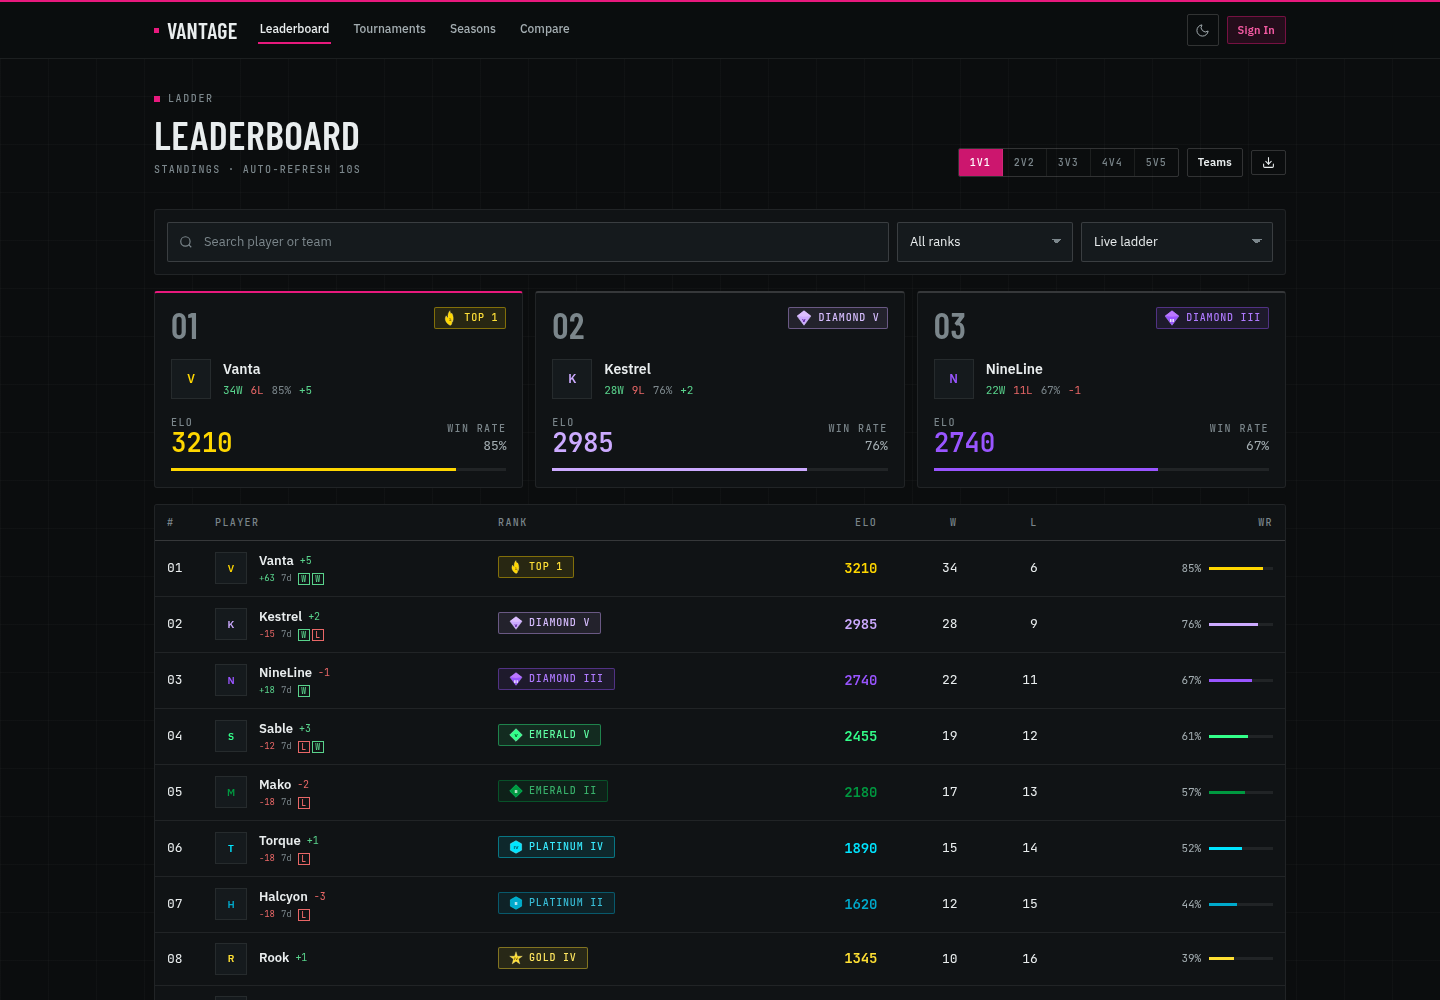
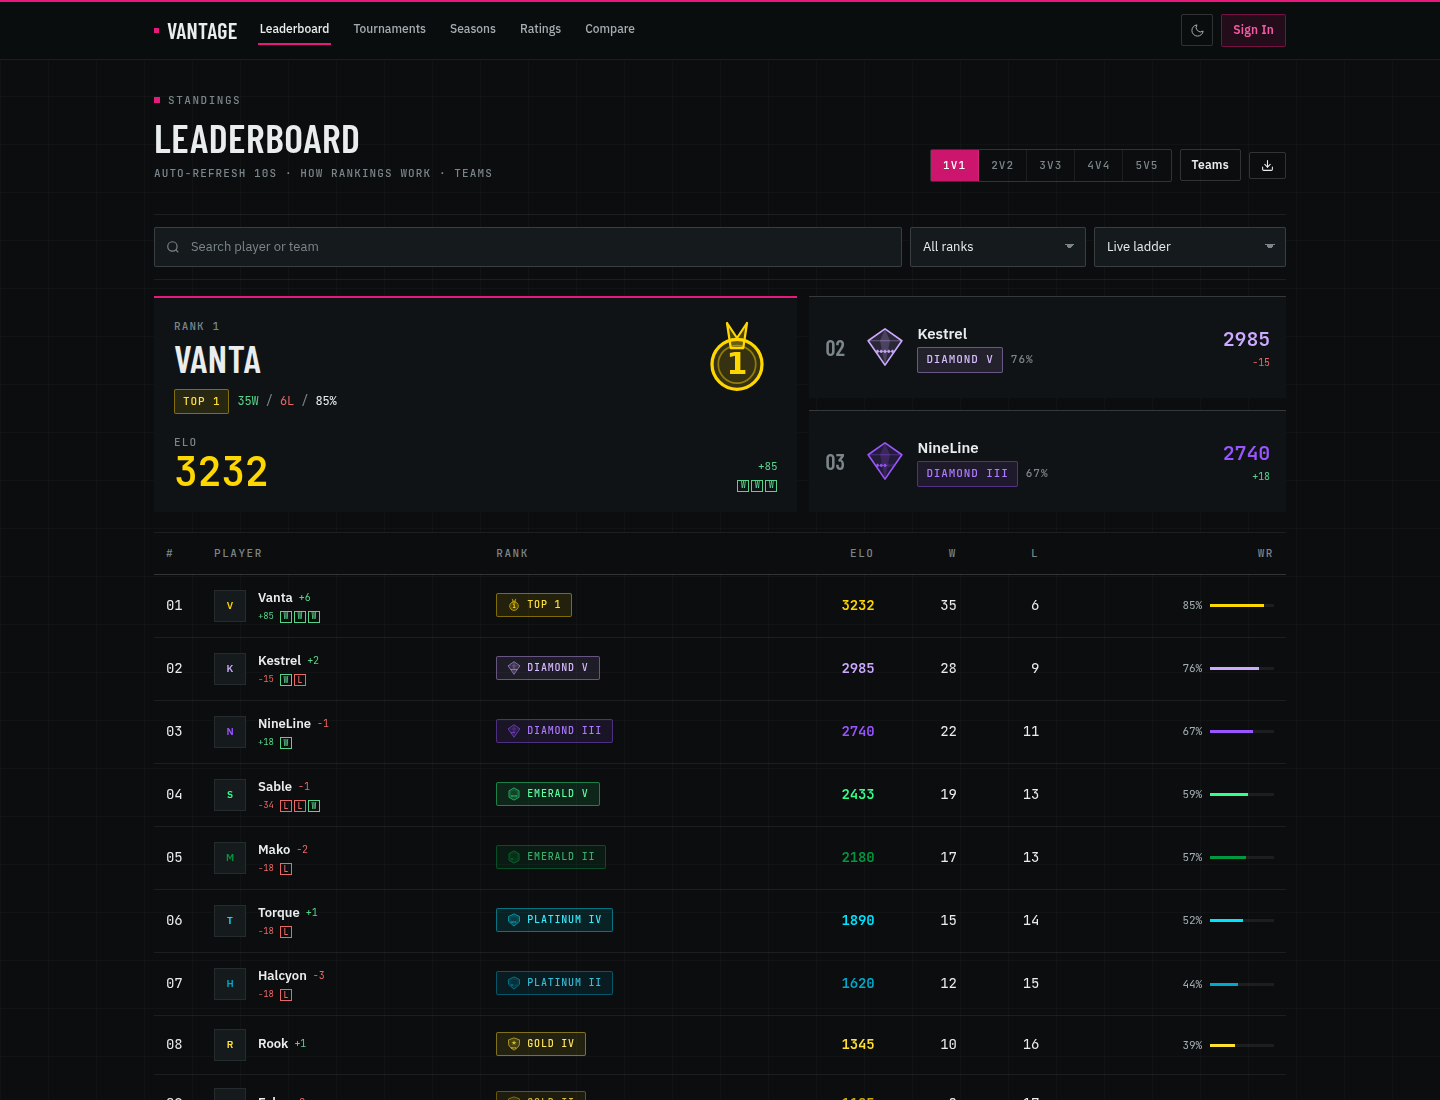
docs: refresh README, add MIT license and security policy
- Current leaderboard screenshot and accurate feature set
- Correct clone URL and admin configuration
- Document confirmation, R6 metadata, teams, integrity and share cards
- MIT license, security policy, Dependabot

diff --git a/README.md b/README.md
@@ -1,153 +1,154 @@
-# Vantage 🏆
+# Vantage
 
-> **Your community's ranked ladder — up and running in 2 commands.**
+A self-hosted competitive ladder for Rainbow Six communities.
 
-![Screenshot](assets/screenshot.png)
+Glicko-2 ratings, seasons, tournaments, confirmed match reporting, Rainbow Six match metadata, managed teams, and a full admin panel — server-rendered with FastAPI and PostgreSQL.
 
-A competitive ranking and match-tracking system for **Rainbow Six Siege** built for communities that want to run their own ranked ladder. Features an ELO system with provisional ratings, seasons, tournaments, Discord authentication, and a full admin panel — all wrapped in a tactical match-dossier UI with dark and light themes.
+![Vantage leaderboard](assets/screenshot.png)
 
-## ✨ What It Can Do
+[![CI](https://github.com/kashcmdd/rainbow-leaderboard/actions/workflows/ci.yml/badge.svg)](https://github.com/kashcmdd/rainbow-leaderboard/actions/workflows/ci.yml)
+![Python](https://img.shields.io/badge/python-3.12-3776AB?logo=python&logoColor=white)
+![FastAPI](https://img.shields.io/badge/FastAPI-0.115-009688?logo=fastapi&logoColor=white)
+![PostgreSQL](https://img.shields.io/badge/PostgreSQL-16-4169E1?logo=postgresql&logoColor=white)
+![Docker](https://img.shields.io/badge/Docker-Compose-2496ED?logo=docker&logoColor=white)
+[![License: MIT](https://img.shields.io/badge/license-MIT-green)](LICENSE)
 
-- **ELO Rating System** — Glicko-2 ratings (shown as ELO) with rating deviation: new players start at 500 with RD 350, shown with a Provisional badge and ±RD until they settle, win/loss outcomes, per-player team updates, and multi-format support (1v1 through 5v5). Inactivity grows RD instead of decaying the rating, so returning players move more. Scores are capped at 20 per side.
-- **Player Profiles** — Each player gets a dashboard with ELO history chart, win/loss stats, rank icon, and a feed of their recent matches.
-- **Match Reporting** — Report results and let the algorithm handle the math. Configurable score formats for any game mode.
-- **Player Comparison** — Put any two players side by side with head-to-head stats and time-filtered match history.
-- **Tournaments** — Brackets with visual connector lines, champion highlights, and ELO integration.
-- **Seasons** — Time-based resets with archived leaderboards you can browse anytime.
-- **Admin Panel** — Manage players, edit matches, set ELO values, bulk import from CSV, add notes, and control seasons. All with an audit log.
-- **Discord Auth** — Log in with Discord. Granular admin roles.
-- **Rank Icons** — 41 custom SVG icons from Bronze through Champion, each tier with its own distinct shape (shields, crystals, crowns, etc.).
-- **Dark Mode** — Moon/sun toggle, saved to your browser. Looks great either way.
-- **Download Data** — Export the leaderboard as CSV or JSON with one click.
+> Status: active and deployed privately on a tailnet. There is no public demo; run it locally or ask for a walkthrough.
 
-## 🧱 Tech Stack
+## What it does
 
-| Layer | Tech |
+**Ratings**
+- Glicko-2 under the hood, shown as ELO. New players start at 500 with RD 350 and a provisional badge.
+- Win/loss only: score margin does not change the swing.
+- Per-player updates inside team formats, 1v1 through 5v5.
+- Inactivity inflates RD instead of decaying the rating, so returning players move more.
+- Top positions, streaks, last-five form, weekly movement and progress to the next rank.
+
+**Match integrity**
+- Player reports are `pending` until the opponent confirms; admins can confirm directly.
+- Disputes keep the result off the ladder until an admin resolves it.
+- Evidence link, duplicate guard, rate limiting and an audit log.
+- Optional map, side (attack/defense) and operator bans.
+
+**Competition**
+- Seasons with archived standings snapshots and champions. Closing a season resets 1v1 only.
+- Tournaments with seeded brackets, automatic winner advancement and a champion on the index.
+- Managed teams with a captain, roster editor and reuse of a named lineup across matches.
+- Head-to-head records on every profile and a two-player compare page.
+
+**Experience**
+- #1 spotlight, rank art for every tier, dark and light themes, responsive from 390px up.
+- Generated 1200×630 match share cards at `/og/match/{id}.png`.
+- CSV/JSON leaderboard export and an optional Discord webhook.
+
+**Admin**
+- Player management, ELO adjustments with reasons, match editing, notes, bulk CSV import.
+- Season and tournament control, audit log with filters.
+- Integrity checks for repeated pairings, one-sided records and reporter bursts.
+
+## Stack
+
+| Layer | Choice |
 |---|---|
-| **Backend** | Python 3.12 + FastAPI |
-| **Database** | PostgreSQL 16 via asyncpg + SQLAlchemy (async) |
-| **Frontend** | Server-rendered Jinja2 + vanilla JS + Tailwind |
-| **Auth** | Discord OAuth2 |
-| **Scheduling** | APScheduler for inactivity RD inflation |
-| **Container** | Docker + Docker Compose |
-| **Migrations** | Alembic |
+| Backend | Python 3.12, FastAPI, SQLAlchemy 2 async |
+| Database | PostgreSQL 16, Alembic migrations |
+| Views | Jinja2, vanilla JS, Tailwind 3 (committed build) |
+| Ratings | Glicko-2 (`app/glicko2.py`) |
+| Jobs | APScheduler (RD inflation, season auto-close) |
+| Runtime | Docker + Docker Compose |
 
-## 🚀 Getting Started
+## Run it
 
-### You'll Need
-
-- Docker & Docker Compose
-
-### Let's Go
+Requirements: Docker and Docker Compose.
 
 ```bash
-git clone https://github.com/Martty12212/rainbow-leaderboard.git
+git clone https://github.com/kashcmdd/rainbow-leaderboard.git
 cd rainbow-leaderboard
+cp .env.example .env
+# set SECRET_KEY and POSTGRES_PASSWORD in .env
 docker compose up -d --build
 ```
 
-Open `http://localhost:8090` and you're live.
+Open `http://localhost:8090`. Migrations run automatically at startup.
 
 ### Configuration
 
-Copy `.env.example` to `.env` and fill in your details:
+`.env.example` documents every setting. The ones that matter first:
 
 ```env
-DATABASE_URL=postgresql+asyncpg://rainbow:rainbow@db:5432/rainbow
-SECRET_KEY=your-secret-key-here
+SECRET_KEY=change-me
+POSTGRES_PASSWORD=change-me
 SITE_NAME=Vantage
-COOKIE_SECURE=false          # true behind HTTPS
+COOKIE_SECURE=false            # true behind HTTPS
 PUBLIC_BASE_URL=http://localhost:8090
-DISCORD_CLIENT_ID=your-discord-client-id
-DISCORD_CLIENT_SECRET=your-discord-client-secret
+DISCORD_CLIENT_ID=
+DISCORD_CLIENT_SECRET=
 DISCORD_REDIRECT_URI=http://localhost:8090/auth/callback
-DISCORD_WEBHOOK_URL=         # optional match announcements
+DISCORD_WEBHOOK_URL=           # optional match announcements
+REQUIRE_MATCH_CONFIRMATION=true
+AUTO_CLOSE_SEASONS=false
 ```
 
-To make yourself an admin, add your Discord user ID to `admin_discord_ids` in `app/config.py`.
+To make yourself an admin, either promote the player from the admin panel or set `ADMIN_DISCORD_IDS` to your Discord user ID.
 
-### Testing without Discord
+### Local sign-in without Discord
 
-Real sign-in is Discord OAuth. For a quick local/tailnet test, set
-`DEV_LOGIN_DISCORD_ID` (and `DEV_LOGIN_ADMIN=true` if you want admin rights),
-restart, then open `/auth/dev`. Unset it for production: while it is set, anyone
-who can reach the site can log in as that user.
+For a local or tailnet test, set `DEV_LOGIN_DISCORD_ID` and open `/auth/dev`. Set `DEV_LOGIN_ADMIN=true` for admin rights. Unset both in production — while they are set, anyone who can reach the site can use that login.
 
-### Migrations
-
-The schema is managed by Alembic. `alembic upgrade head` runs automatically when the
-app starts, using a Postgres advisory lock so multiple workers cannot race.
-
-For a database created before Alembic was wired (tables but no `alembic_version`),
-startup adopts it: it verifies that no model columns are missing, converts the known
-`matches.tournament_id` column to `uuid`, and stamps the baseline. If anything else
-looks stale, startup fails with the missing columns instead of guessing.
+## Development
 
 ```bash
-alembic upgrade head          # apply migrations
-alembic revision --autogenerate -m "change"
-```
-
-Back up the database before the first deploy against an existing volume.
-
-## 🎨 Frontend
-
-Pages are server-rendered Jinja with vanilla JS. Tailwind compiles to a committed
-stylesheet at `app/static/css/tailwind.min.css`, so the container needs no Node
-build:
-
-```bash
+python -m venv .venv
+.venv/bin/pip install -r requirements.txt
+.venv/bin/pytest -q            # 50 tests
+.venv/bin/ruff check .
 npm install
-npm run tw:build   # rebuild after changing templates or input.css
-npm run tw:watch   # during development
+npm run tw:build               # after template or input.css changes
 ```
 
-Design tokens and components are documented in `DESIGN.md`; product context is in
-`PRODUCT.md`. The theme follows `localStorage`, then the system preference; append
-`?theme=light` or `?theme=dark` to force one.
+CI runs lint, the CSS drift check, `alembic upgrade head` and the test suite on every push.
 
-## 📖 API Routes
+### Project layout
 
-| Method | Path | Description |
+```
+app/
+├── routers/          # pages, matches, players, teams, tournaments, admin, OG
+├── templates/        # Jinja2 pages
+├── static/           # compiled CSS, rank icons, avatars
+├── glicko2.py        # rating maths
+├── season_service.py # snapshot + reset
+├── models.py         # SQLAlchemy models
+├── schema.py         # Alembic bootstrap/adoption
+└── config.py         # settings
+alembic/              # migrations
+tests/                # pytest suite
+main.py               # FastAPI entrypoint
+```
+
+`PRODUCT.md` holds the product context and `DESIGN.md` the design system (tokens, type, components, motion).
+
+## API
+
+Interactive docs are at `/docs` (Swagger) and `/redoc`.
+
+| Method | Path | Purpose |
 |---|---|---|
-| GET | `/leaderboard` | View the leaderboard (live or archived season) |
-| GET | `/player/{id}` | Player profile and stats |
-| GET | `/team/{id}` | Team roster, rating and matches |
-| GET | `/match/{id}` | Single match report |
-| GET | `/tournaments` | Tournament listings |
 | GET | `/api/leaderboard/{format}` | Standings (`?season=` for archives) |
-| GET | `/api/matches` | Match history |
-| GET | `/api/matches/{id}` | Match detail |
+| GET | `/api/matches` | Confirmed match history |
+| GET | `/api/matches/{id}` | Match detail, status and metadata |
 | POST | `/api/matches/preview` | ELO preview without writing |
-| POST | `/api/matches` | Report a match result |
-| GET | `/healthz` | Liveness plus database check |
+| POST | `/api/matches` | Report a result |
+| POST | `/api/matches/{id}/confirm` | Confirm a pending result |
+| POST | `/api/matches/{id}/dispute` | Dispute a result |
+| GET | `/api/players/{id}` | Profile and ratings |
+| GET | `/api/players/{id}/h2h` | Head-to-head record |
+| GET | `/api/teams` | Managed teams |
+| POST | `/api/teams` | Create a team |
+| PATCH | `/api/teams/{id}` | Edit name, roster or captain |
+| GET | `/api/admin/integrity` | Repeated pairings, one-sided records, reporter bursts |
+| GET | `/og/match/{id}.png` | Share card |
+| GET | `/healthz` | Liveness + database check |
 
-Full API docs at `/docs` (Swagger) or `/redoc`.
+## License
 
-## 📁 Project Layout
-
-```
-rainbow-leaderboard/
-├── app/
-│   ├── routers/       # API route handlers
-│   ├── templates/     # Jinja2 HTML templates
-│   ├── static/        # CSS, icons, avatars
-│   ├── config.py      # App configuration
-│   ├── database.py    # DB connection & session
-│   ├── models.py      # SQLAlchemy models
-│   ├── schemas.py     # Pydantic schemas
-│   ├── elo.py         # ELO rating logic
-│   ├── ranks.py       # Rank definitions
-│   └── schema.py      # Alembic bootstrap / adoption
-├── alembic/           # Migrations
-├── tests/             # Pytest suite
-├── main.py            # FastAPI app entrypoint
-├── package.json       # Tailwind build
-├── Dockerfile         # API container build
-├── docker-compose.yml # Service orchestration
-└── requirements.txt   # Python dependencies
-```
-
-## 📄 License
-
-Built for fun, so go ahead — use it, tweak it, break it, make it yours.
+MIT. See [LICENSE](LICENSE).

diff --git a/SECURITY.md b/SECURITY.md
@@ -1,0 +1,15 @@
+# Security
+
+Please report vulnerabilities privately through
+[GitHub Security Advisories](https://github.com/kashcmdd/rainbow-leaderboard/security/advisories/new)
+rather than opening a public issue.
+
+Include the affected route or file, reproduction steps, and the impact you
+believe it has. The latest `main` is supported.
+
+## Deployment notes
+
+- Set `COOKIE_SECURE=true` behind HTTPS.
+- Unset `DEV_LOGIN_DISCORD_ID` and `DEV_LOGIN_ADMIN` in production.
+- Keep `SECRET_KEY` and `POSTGRES_PASSWORD` out of version control.
+- Restrict admin access with `ADMIN_DISCORD_IDS` or the in-app admin toggle.
